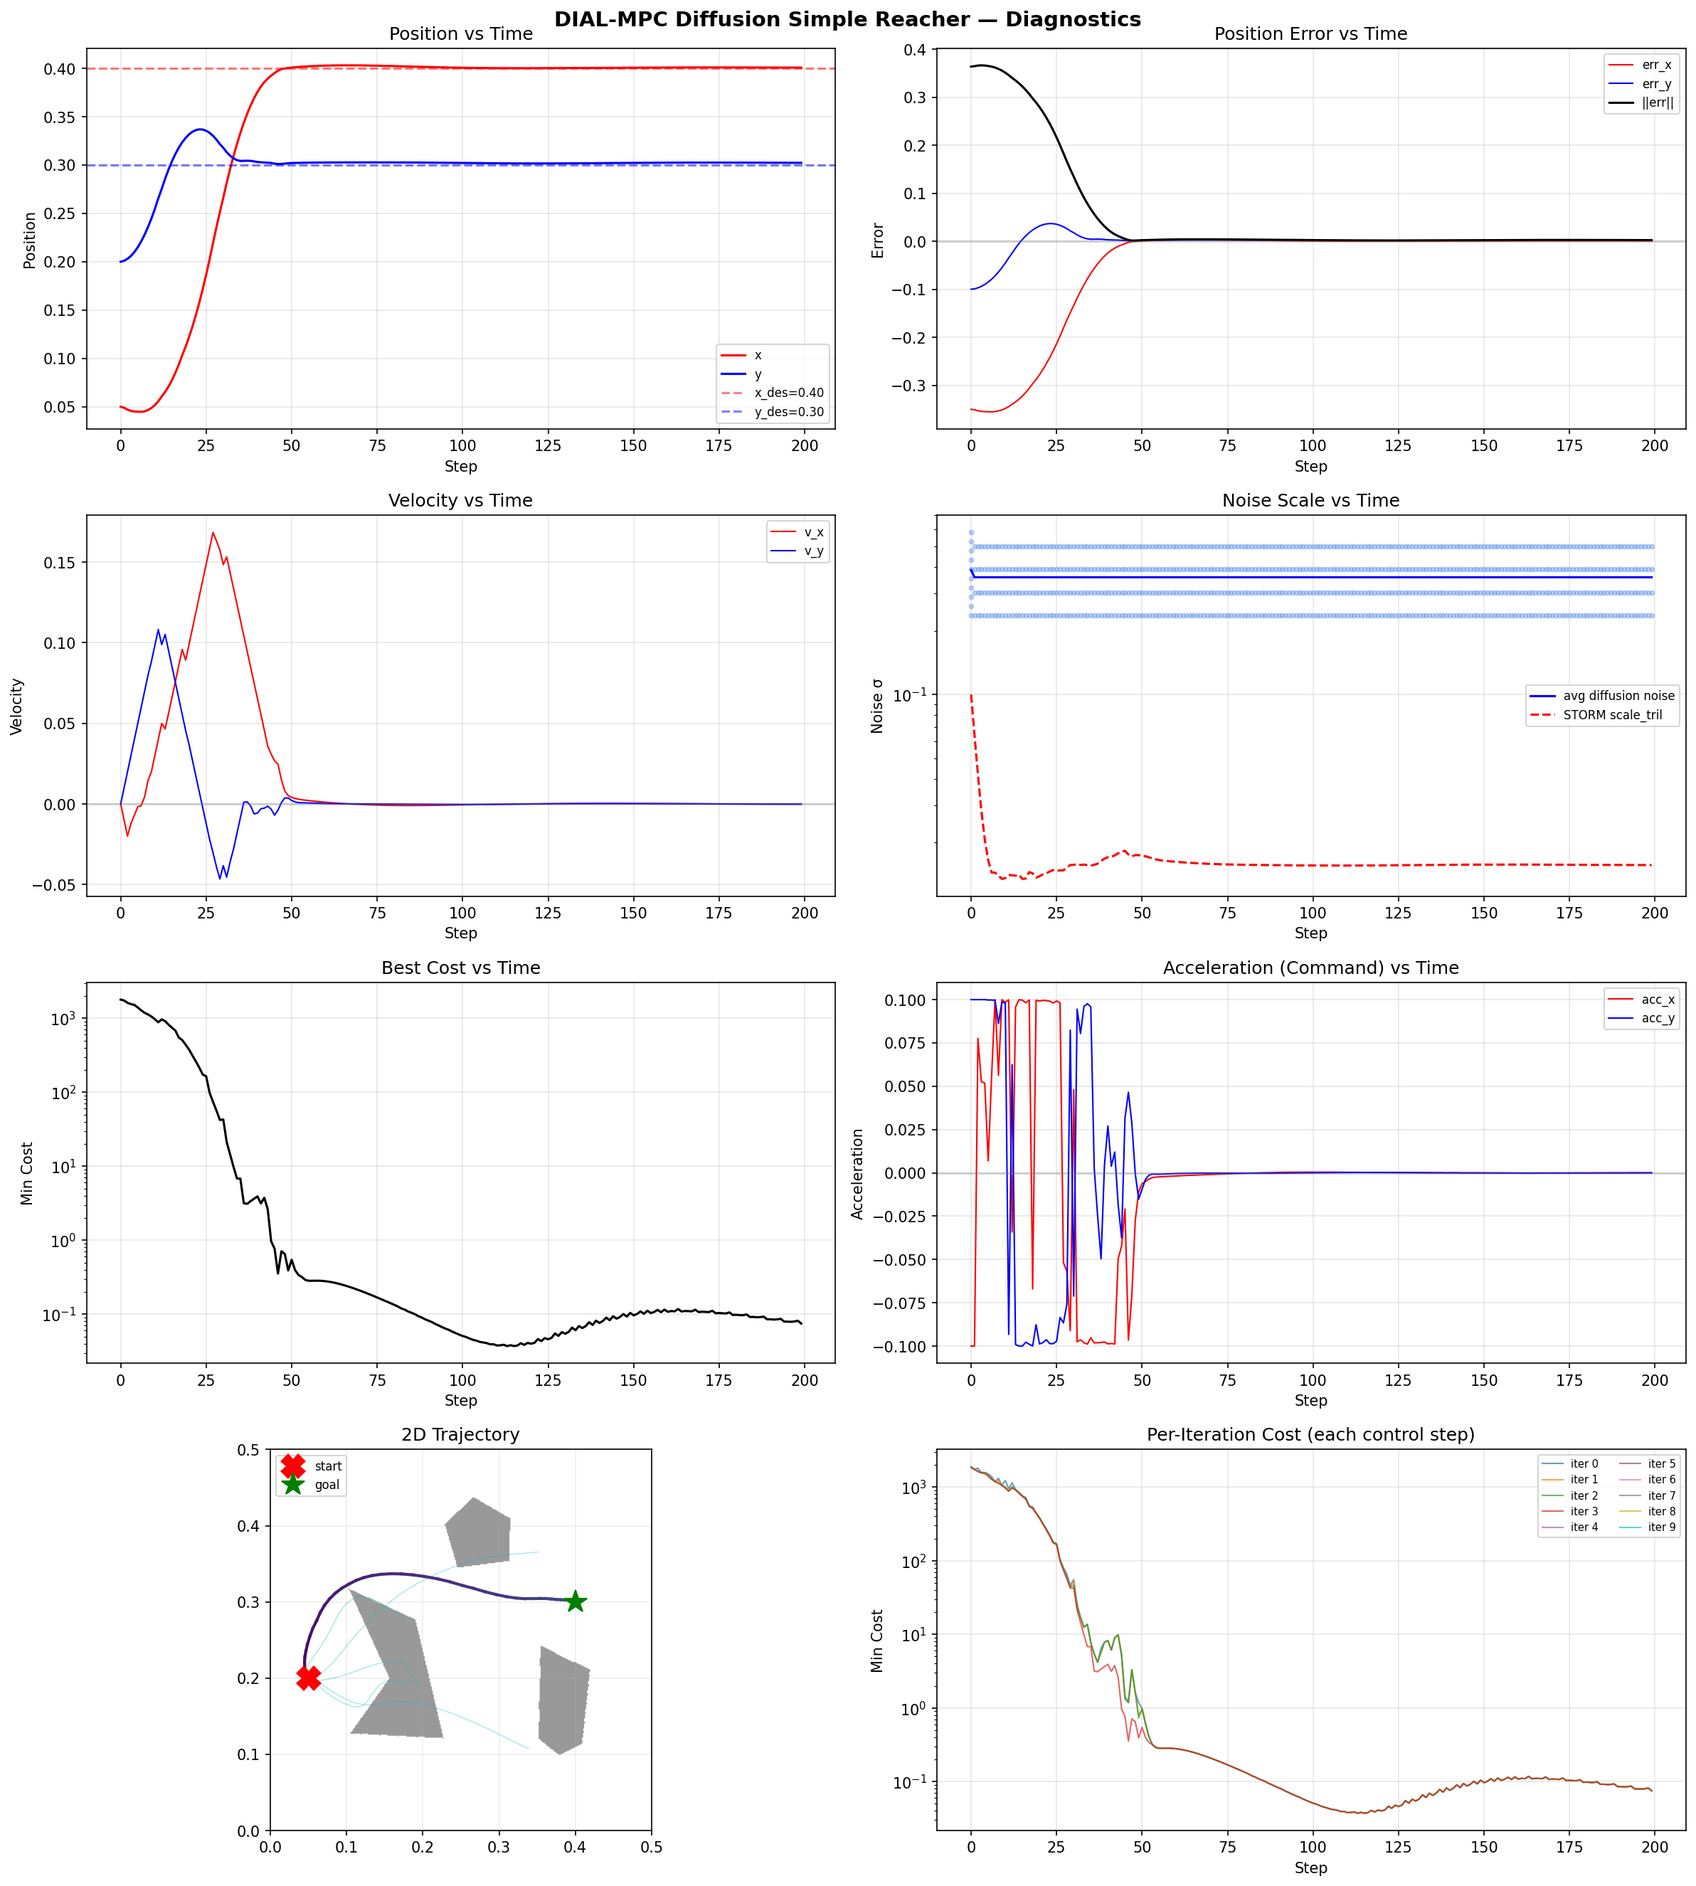
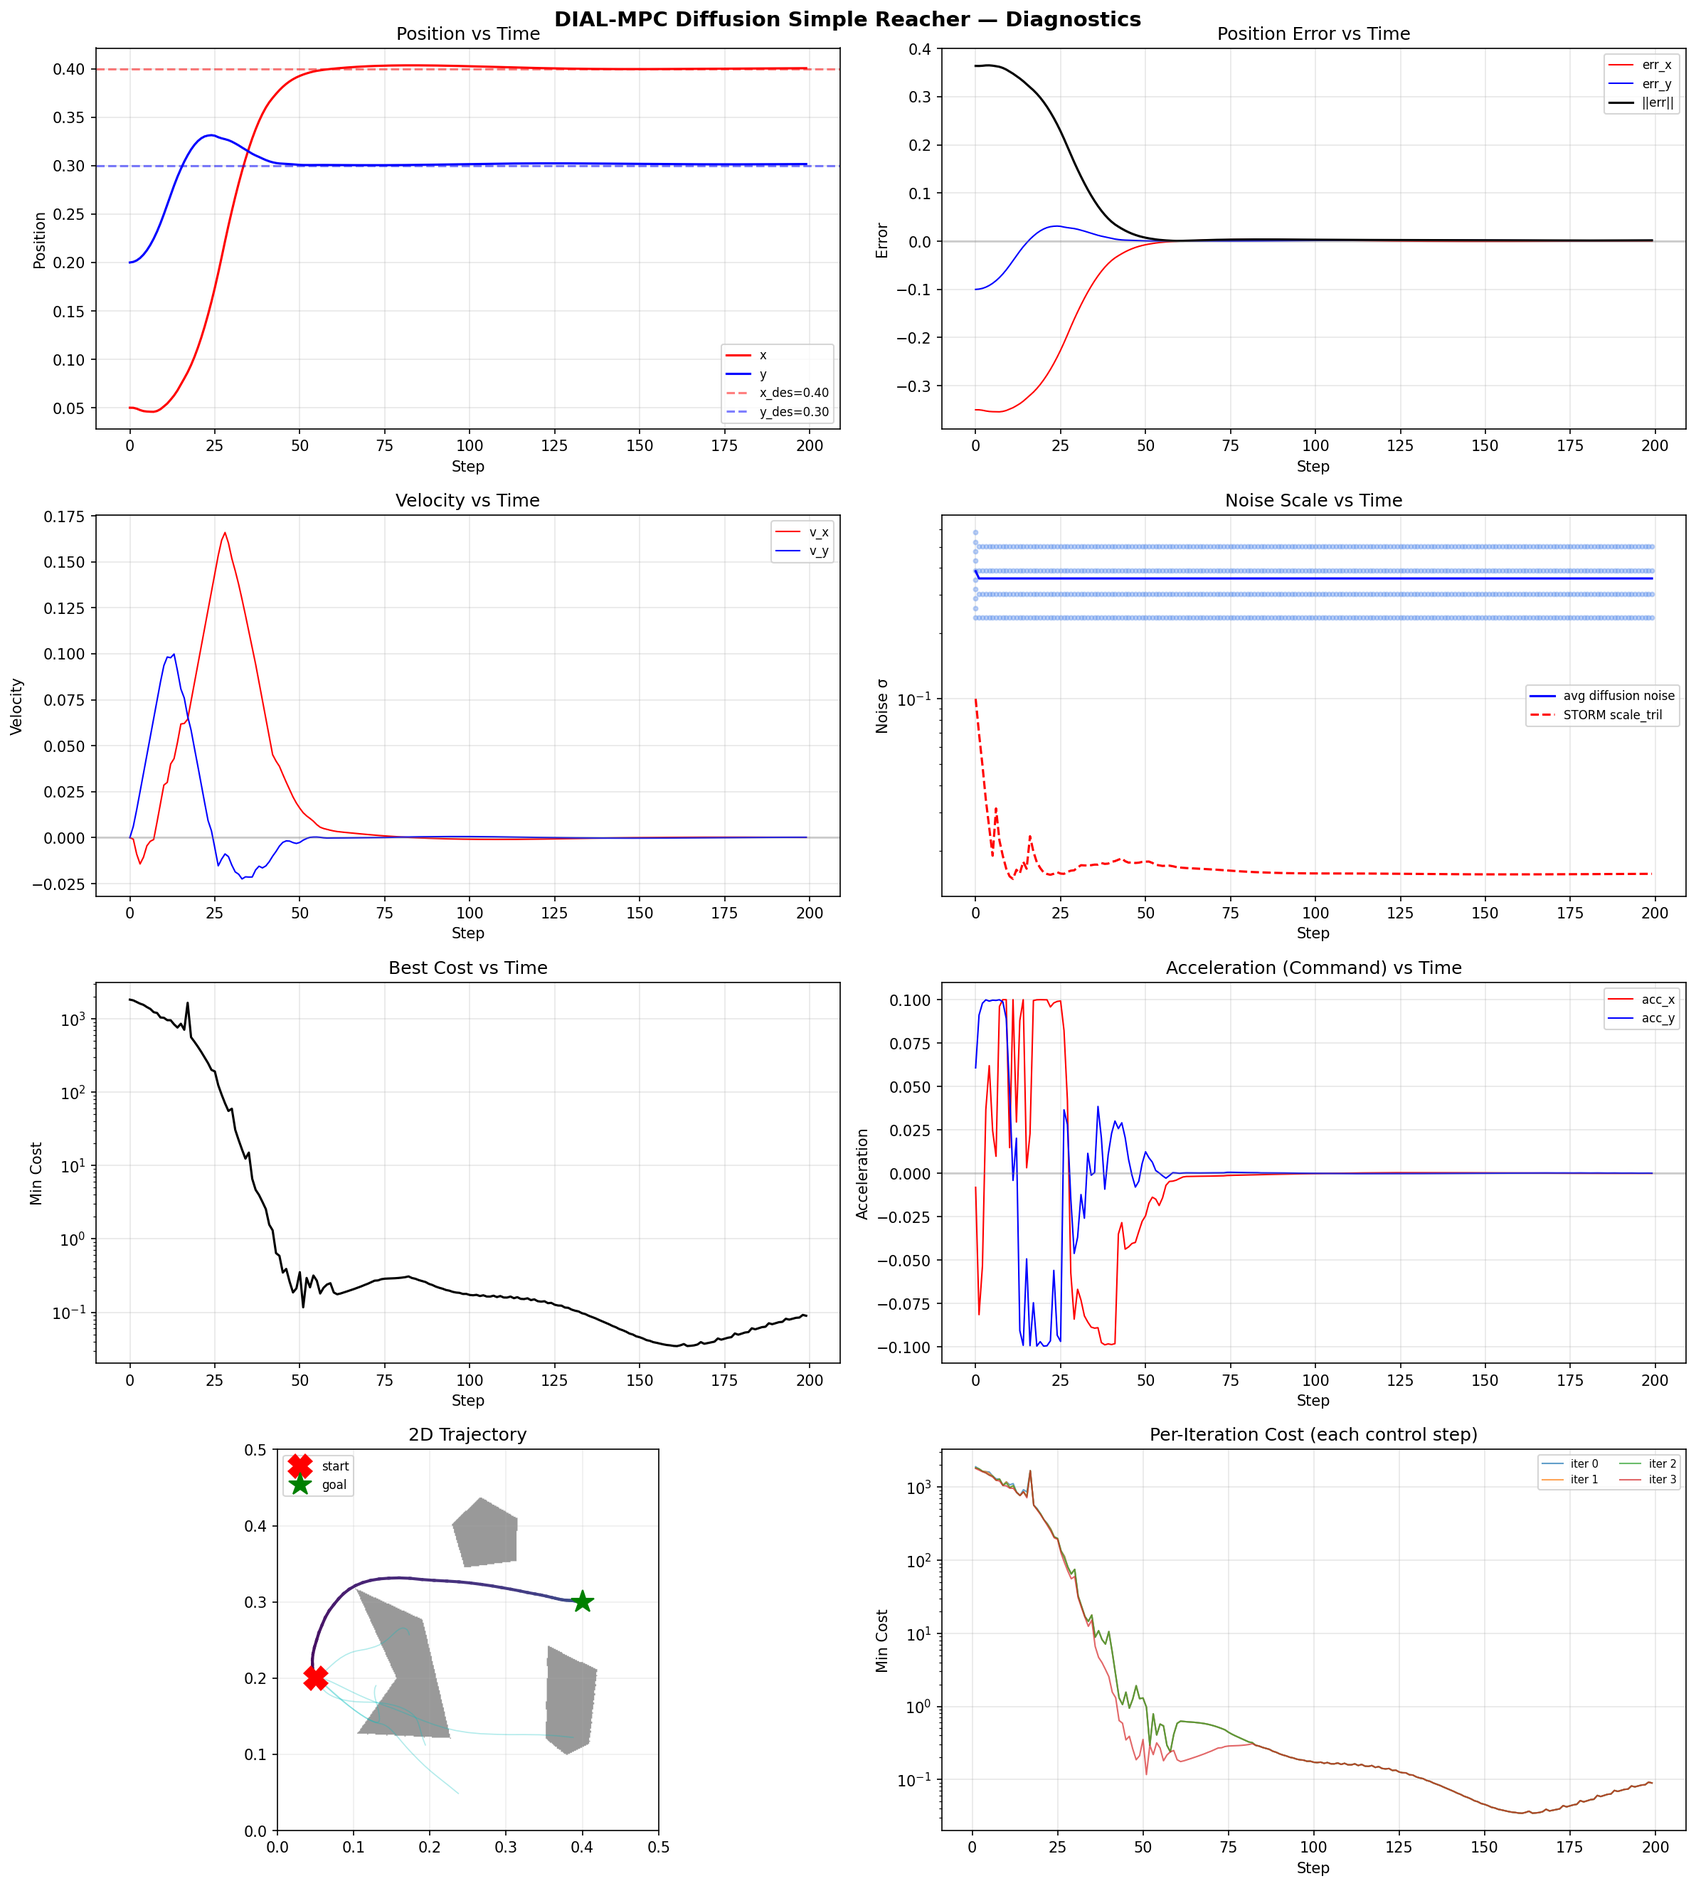
更改了配置文件加载方式，从config目录中的yaml文件中加载配置

diff --git a/examples/simple_reacher.py b/examples/simple_reacher.py
@@ -91,7 +91,8 @@ def holonomic_robot(args):
     plan_length = 200
 
     traj_log = {'position':[], 'velocity':[], 'error':[], 'command':[], 'des':[],
-                'acc':[], 'world':image, 'bounds':extents}
+                'acc':[], 'world':image, 'bounds':extents,
+                'best_cost':[], 'scale_tril':[]}
     
 
     while(i < plan_length):
@@ -104,19 +105,28 @@ def holonomic_robot(args):
             
 
         curr_state_tensor = torch.as_tensor(curr_state, **tensor_args).unsqueeze(0)
-        error, _ = simple_task.get_current_error(filtered_state)
+        
+        # 计算 xy 维度的位置误差
+        xy_error = np.array(goal_state[:2]) - filtered_state['position']
         
         command = simple_task.get_command(t_step, filtered_state, sim_dt, WAIT=True)
         
         if(i == 0):
             top_trajs = simple_task.top_trajs
             traj_log['top_traj'] = top_trajs.cpu().numpy()
-                
+
+        # 记录 best_cost 和 scale_tril (噪声尺度)
+        mppi_controller = simple_task.control_process.controller
+        best_cost = mppi_controller.total_costs.min().item()
+        scale_tril_diag = mppi_controller.scale_tril.detach().cpu().numpy().copy()
+        traj_log['best_cost'].append(best_cost)
+        traj_log['scale_tril'].append(scale_tril_diag)
+
         current_state = command
             
         print(i, command['position'])
         traj_log['position'].append(filtered_state['position'])
-        traj_log['error'].append(error)
+        traj_log['error'].append(xy_error.copy())
         traj_log['velocity'].append(filtered_state['velocity'])
         traj_log['command'].append(command['acceleration'])
         traj_log['acc'].append(command['acceleration'])
@@ -129,54 +139,120 @@ def holonomic_robot(args):
 
 
 def plot_traj(traj_log):
-    position = np.matrix(traj_log['position'])
-    vel = np.matrix(traj_log['velocity'])
-    err = np.matrix(traj_log['error'])
-    acc = np.matrix(traj_log['acc'])
-    act = np.matrix(traj_log['command'])
-    des = np.matrix(traj_log['des'])
+    position = np.array(traj_log['position'])
+    vel = np.array(traj_log['velocity'])
+    err = np.array(traj_log['error'])
+    acc = np.array(traj_log['acc'])
+    act = np.array(traj_log['command'])
+    des = np.array(traj_log['des'])
+    best_cost = np.array(traj_log['best_cost'])
+    scale_tril = np.array(traj_log['scale_tril'])
 
-    c_map = [x / position.shape[0] for x in range(position.shape[0])]
-    #print(c_map)
-    #fig, axs = plt.subplots(5)
+    steps = np.arange(position.shape[0])
 
-    axs = [plt.subplot(4,1,i+1) for i in range(4)]
-    #axs = [plt.subplot(1,1,i+1) for i in range(1)]
+    fig, axs = plt.subplots(4, 2, figsize=(14, 16))
+    fig.suptitle('STORM MPPI Simple Reacher', fontsize=14, fontweight='bold')
 
-    
-    if(len(axs) > 3):
-        axs[0].set_title('Position')
-        axs[1].set_title('Velocity')
-        axs[2].set_title('Acceleration')
+    # ── (0,0) XY Position ──
+    axs[0, 0].set_title('Position')
+    axs[0, 0].plot(steps, position[:, 0], 'r', label='x')
+    axs[0, 0].plot(steps, position[:, 1], 'g', label='y')
+    axs[0, 0].axhline(y=des[0, 0], color='r', linestyle='-.', alpha=0.5, label='x_des')
+    axs[0, 0].axhline(y=des[0, 1], color='g', linestyle='-.', alpha=0.5, label='y_des')
+    axs[0, 0].set_xlabel('Step')
+    axs[0, 0].set_ylabel('Position')
+    axs[0, 0].legend()
+    axs[0, 0].grid(True, alpha=0.3)
 
-        axs[3].set_title('Trajectory Position')
-        axs[0].plot(position[:,0], 'r', label='x')
-        axs[0].plot(position[:,1], 'g',label='y')
+    # ── (0,1) XY Error ──
+    axs[0, 1].set_title('Position Error (goal - pos)')
+    axs[0, 1].plot(steps, err[:, 0], 'r', label='x_err')
+    axs[0, 1].plot(steps, err[:, 1], 'g', label='y_err')
+    axs[0, 1].axhline(y=0, color='k', linestyle='--', alpha=0.3)
+    axs[0, 1].set_xlabel('Step')
+    axs[0, 1].set_ylabel('Error')
+    axs[0, 1].legend()
+    axs[0, 1].grid(True, alpha=0.3)
 
-        axs[0].plot(des[:,0], 'r-.', label='x_des')
-        axs[0].plot(des[:,1],'g-.', label='y_des')
-        axs[0].legend()
+    # ── (1,0) XY Velocity ──
+    axs[1, 0].set_title('Velocity')
+    axs[1, 0].plot(steps, vel[:, 0], 'r', label='vx')
+    axs[1, 0].plot(steps, vel[:, 1], 'g', label='vy')
+    axs[1, 0].set_xlabel('Step')
+    axs[1, 0].set_ylabel('Velocity')
+    axs[1, 0].legend()
+    axs[1, 0].grid(True, alpha=0.3)
 
-        axs[1].plot(vel[:,0], 'r',label='x')
-        axs[1].plot(vel[:,1], 'g', label='y')
-        axs[2].plot(acc[:,0], 'r', label='acc')
-        axs[2].plot(acc[:,1], 'g', label='acc')
+    # ── (1,1) XY Acceleration ──
+    axs[1, 1].set_title('Acceleration')
+    axs[1, 1].plot(steps, acc[:, 0], 'r', label='ax')
+    axs[1, 1].plot(steps, acc[:, 1], 'g', label='ay')
+    axs[1, 1].set_xlabel('Step')
+    axs[1, 1].set_ylabel('Acceleration')
+    axs[1, 1].legend()
+    axs[1, 1].grid(True, alpha=0.3)
+
+    # ── (2,0) Noise (scale_tril) ──
+    axs[2, 0].set_title('Noise Scale (scale_tril)')
+    if scale_tril.ndim == 1:
+        # sigma_I type: scalar per step
+        axs[2, 0].plot(steps, scale_tril, 'b', label='σ')
+    else:
+        # diag_AxA type: per-action-dim
+        for d in range(scale_tril.shape[1]):
+            axs[2, 0].plot(steps, scale_tril[:, d], label=f'σ_dim{d}')
+    axs[2, 0].set_xlabel('Step')
+    axs[2, 0].set_ylabel('scale_tril')
+    axs[2, 0].set_yscale('log')
+    axs[2, 0].legend()
+    axs[2, 0].grid(True, alpha=0.3)
+
+    # ── (2,1) Best Cost ──
+    axs[2, 1].set_title('Best Cost')
+    axs[2, 1].plot(steps, best_cost, 'b', label='best cost')
+    axs[2, 1].set_xlabel('Step')
+    axs[2, 1].set_ylabel('Cost')
+    axs[2, 1].set_yscale('log')
+    axs[2, 1].legend()
+    axs[2, 1].grid(True, alpha=0.3)
+
+    # ── (3,0) 2D Trajectory ──
+    axs[3, 0].set_title('2D Trajectory')
     extents = (traj_log['bounds'][0], traj_log['bounds'][1],
                traj_log['bounds'][2], traj_log['bounds'][3])
-    axs[-1].imshow(traj_log['world'], extent=extents, cmap='gray', alpha=0.4)
-    axs[-1].plot(np.ravel(position[0,0]), np.ravel(position[0,1]), 'rX', linewidth=3.0, markersize=15)
-    axs[-1].plot(des[:,0], des[:,1],'gX', linewidth=3.0, markersize=15)
-    axs[-1].plot(np.ravel(position[:,0]), np.ravel(position[:,1]), 'k-.', linewidth=3.0)
-    
-    
+    axs[3, 0].imshow(traj_log['world'], extent=extents, cmap='gray', alpha=0.4)
+    axs[3, 0].plot(position[0, 0], position[0, 1], 'rX', markersize=15, label='start')
+    axs[3, 0].plot(des[0, 0], des[0, 1], 'gX', markersize=15, label='goal')
+    axs[3, 0].plot(position[:, 0], position[:, 1], 'k-.', linewidth=2.0)
+    if 'top_traj' in traj_log:
+        for k in range(traj_log['top_traj'].shape[0]):
+            d = traj_log['top_traj'][k, :, :2]
+            axs[3, 0].plot(d[:, 0], d[:, 1], alpha=0.3, linewidth=0.5)
+    axs[3, 0].set_xlim(traj_log['bounds'][0], traj_log['bounds'][1])
+    axs[3, 0].set_ylim(traj_log['bounds'][2], traj_log['bounds'][3])
+    axs[3, 0].set_aspect('equal')
+    axs[3, 0].legend()
+    axs[3, 0].grid(True, alpha=0.3)
 
+    # ── (3,1) Summary text ──
+    axs[3, 1].axis('off')
+    axs[3, 1].set_title('Summary')
+    summary_text = (
+        f"Total steps: {len(steps)}\n"
+        f"Final position: ({position[-1, 0]:.4f}, {position[-1, 1]:.4f})\n"
+        f"Goal: ({des[0, 0]:.4f}, {des[0, 1]:.4f})\n"
+        f"Final best cost: {best_cost[-1]:.6f}\n"
+        f"Min best cost: {best_cost.min():.6f}\n"
+        f"Final scale_tril: {scale_tril[-1]}"
+    )
+    axs[3, 1].text(0.1, 0.5, summary_text, transform=axs[3, 1].transAxes,
+                   fontsize=11, verticalalignment='center', fontfamily='monospace',
+                   bbox=dict(boxstyle='round', facecolor='wheat', alpha=0.5))
 
-    for k in range(traj_log['top_traj'].shape[0]):
-        d = traj_log['top_traj'][k,:,:2]
-
-    axs[-1].axis('square')
-    axs[-1].set_xlim(traj_log['bounds'][0], traj_log['bounds'][1])
-    axs[-1].set_ylim(traj_log['bounds'][2], traj_log['bounds'][3])
+    plt.tight_layout()
+    save_path = 'simple_reacher_traj_log.png'
+    plt.savefig(save_path, dpi=150, bbox_inches='tight')
+    print(f"Trajectory plot saved to {save_path}")
     plt.show()
 if __name__ == '__main__':
     

diff --git a/storm_kit/mpc/task/diffusion_simple_task.py b/storm_kit/mpc/task/diffusion_simple_task.py
@@ -55,12 +55,22 @@ class DiffusionSimpleTask(DiffusionTaskBase):
     
     def __init__(self, 
                  robot_file='simple_reacher.yml',
-                 diffusion_params=None,
+                 override_config=None,
                  tensor_args={'device': "cpu", 'dtype': torch.float32}):
-        """Initialize DiffusionSimpleTask."""
+        """Initialize DiffusionSimpleTask.
+        
+        Args:
+            robot_file: Base robot config file name (in content/configs/mpc/)
+            override_config: Full config dict from diffusion_simple_reacher.yml.
+                             Its 'mppi' fields override the base robot config,
+                             and its 'diffusion' fields set diffusion parameters.
+            tensor_args: Device and dtype settings.
+        """
         super().__init__(tensor_args=tensor_args)
         
-        # Default diffusion parameters
+        self.override_config = override_config or {}
+        
+        # Extract diffusion parameters with defaults
         self.diffusion_params = {
             'beta_1': 1.0,
             'beta_2': 1.0,
@@ -68,10 +78,8 @@ class DiffusionSimpleTask(DiffusionTaskBase):
             'n_diffuse_init': 10,
             'sigma_base': 1.0
         }
-        
-        # Override with user-provided params
-        if diffusion_params is not None:
-            self.diffusion_params.update(diffusion_params)
+        diffusion_section = self.override_config.get('diffusion', {})
+        self.diffusion_params.update(diffusion_section)
             
         # Initialize controller (DiffusionMPPI)
         self.controller = self.init_diffusion_mppi(robot_file)
@@ -95,6 +103,19 @@ class DiffusionSimpleTask(DiffusionTaskBase):
         
         with open(mpc_yml_file) as file:
             exp_params = yaml.safe_load(file)
+        
+        # Override exp_params with values from diffusion config file
+        # This allows diffusion_simple_reacher.yml to override mppi, cost, model, etc.
+        for section_key in ['mppi', 'cost', 'model']:
+            if section_key in self.override_config:
+                if section_key in exp_params and isinstance(exp_params[section_key], dict):
+                    exp_params[section_key].update(self.override_config[section_key])
+                else:
+                    exp_params[section_key] = self.override_config[section_key]
+        # Also override top-level scalar keys (control_dt, etc.)
+        for key in ['control_dt', 'state_filter_coeff', 'cmd_filter_coeff']:
+            if key in self.override_config:
+                exp_params[key] = self.override_config[key]
             
         # Create rollout function
         rollout_fn = self.get_rollout_fn(

diff --git a/examples/diffusion_sampling/diffusion_simple_reacher.py b/examples/diffusion_sampling/diffusion_simple_reacher.py
@@ -44,19 +44,15 @@ def holonomic_robot(args):
 
     tensor_args = {'device': device, 'dtype': torch.float32}
 
-    # Load diffusion parameters from config
+    # Load full config (mppi + diffusion + cost + model)
     config_dir = os.path.dirname(__file__)
     config_path = os.path.join(config_dir, 'config', 'diffusion_simple_reacher.yml')
-    diffusion_config = load_yaml(config_path)
-    diffusion_params = diffusion_config.get('diffusion', {
-        'n_diffuse': 4, 'n_diffuse_init': 10,
-        'beta_1': 1.0, 'beta_2': 1.0, 'sigma_base': 1.0
-    })
+    full_config = load_yaml(config_path)
 
     # ── Create task (mirrors: simple_task = SimpleTask(...)) ──
     simple_task = DiffusionSimpleTask(
         robot_file="simple_reacher.yml",
-        diffusion_params=diffusion_params,
+        override_config=full_config,
         tensor_args=tensor_args
     )
 
@@ -277,19 +273,20 @@ def plot_traj(traj_log, save_path=None, headless=False):
     # ── (3,1) Per-iteration cost evolution ──
     ax = axs[3, 1]
     ax.set_title('Per-Iteration Cost (each control step)')
-    # Build a matrix: rows = steps, cols = iteration index
-    max_iters = max(len(ic) for ic in traj_log['iteration_costs']) if traj_log['iteration_costs'] else 1
-    cost_matrix = np.full((len(traj_log['iteration_costs']), max_iters), np.nan)
-    for t, ic in enumerate(traj_log['iteration_costs']):
-        for j, c in enumerate(ic):
-            cost_matrix[t, j] = c
-    # Plot each iteration as a line
-    for j in range(max_iters):
-        col = cost_matrix[:, j]
-        valid = ~np.isnan(col)
-        if valid.any():
-            label = f'iter {j}' if max_iters <= 12 else (f'iter {j}' if j in [0, max_iters-1] else None)
-            ax.plot(steps[valid], col[valid], linewidth=1.0, alpha=0.7, label=label)
+    # Skip the first step (n_diffuse_init iterations) and only plot normal steps (n_diffuse iterations)
+    iter_costs_normal = traj_log['iteration_costs'][1:]  # exclude step 0 (init)
+    steps_normal = steps[1:]
+    if iter_costs_normal:
+        n_iters = len(iter_costs_normal[0])  # n_diffuse (e.g. 4)
+        cost_matrix = np.full((len(iter_costs_normal), n_iters), np.nan)
+        for t, ic in enumerate(iter_costs_normal):
+            for j, c in enumerate(ic[:n_iters]):
+                cost_matrix[t, j] = c
+        for j in range(n_iters):
+            col = cost_matrix[:, j]
+            valid = ~np.isnan(col)
+            if valid.any():
+                ax.plot(steps_normal[valid], col[valid], linewidth=1.0, alpha=0.7, label=f'iter {j}')
     ax.set_xlabel('Step')
     ax.set_ylabel('Min Cost')
     ax.set_yscale('log')

diff --git a/examples/diffusion_sampling/TODO/Todo.md b/examples/diffusion_sampling/TODO/Todo.md
@@ -1,0 +1,9 @@
+## 1. 加速度跳变，速度虽丝滑但存在“锯齿”现象
+在加速度跳变的情况下，虽然速度曲线看起来很平滑，但实际上存在“锯齿”现象。这是因为在加速度发生突变时，速度的变化会出现不连续的点，导致速度曲线出现锯齿状的波动。这种现象可能会影响系统的性能和稳定性，因此需要采取措施来平滑加速度的变化，以减少锯齿现象的影响。
+
+## 2. cost随着迭代理论上应该越来越小，但结果是有时候迭代前期结果更好，后期反而变差了
+初步解决办法：
+
+1.在迭代过程中监控 cost 的变化，如果发现 cost 反而变大，可以考虑增加一个早停机制；或者认为此次迭代作废，不更新均值，直接跳到下次迭代。
+
+2.每次迭代的时候强制加入“0”，即代表不更新的情况，这样就不会出现 cost 反而变大的情况了。
